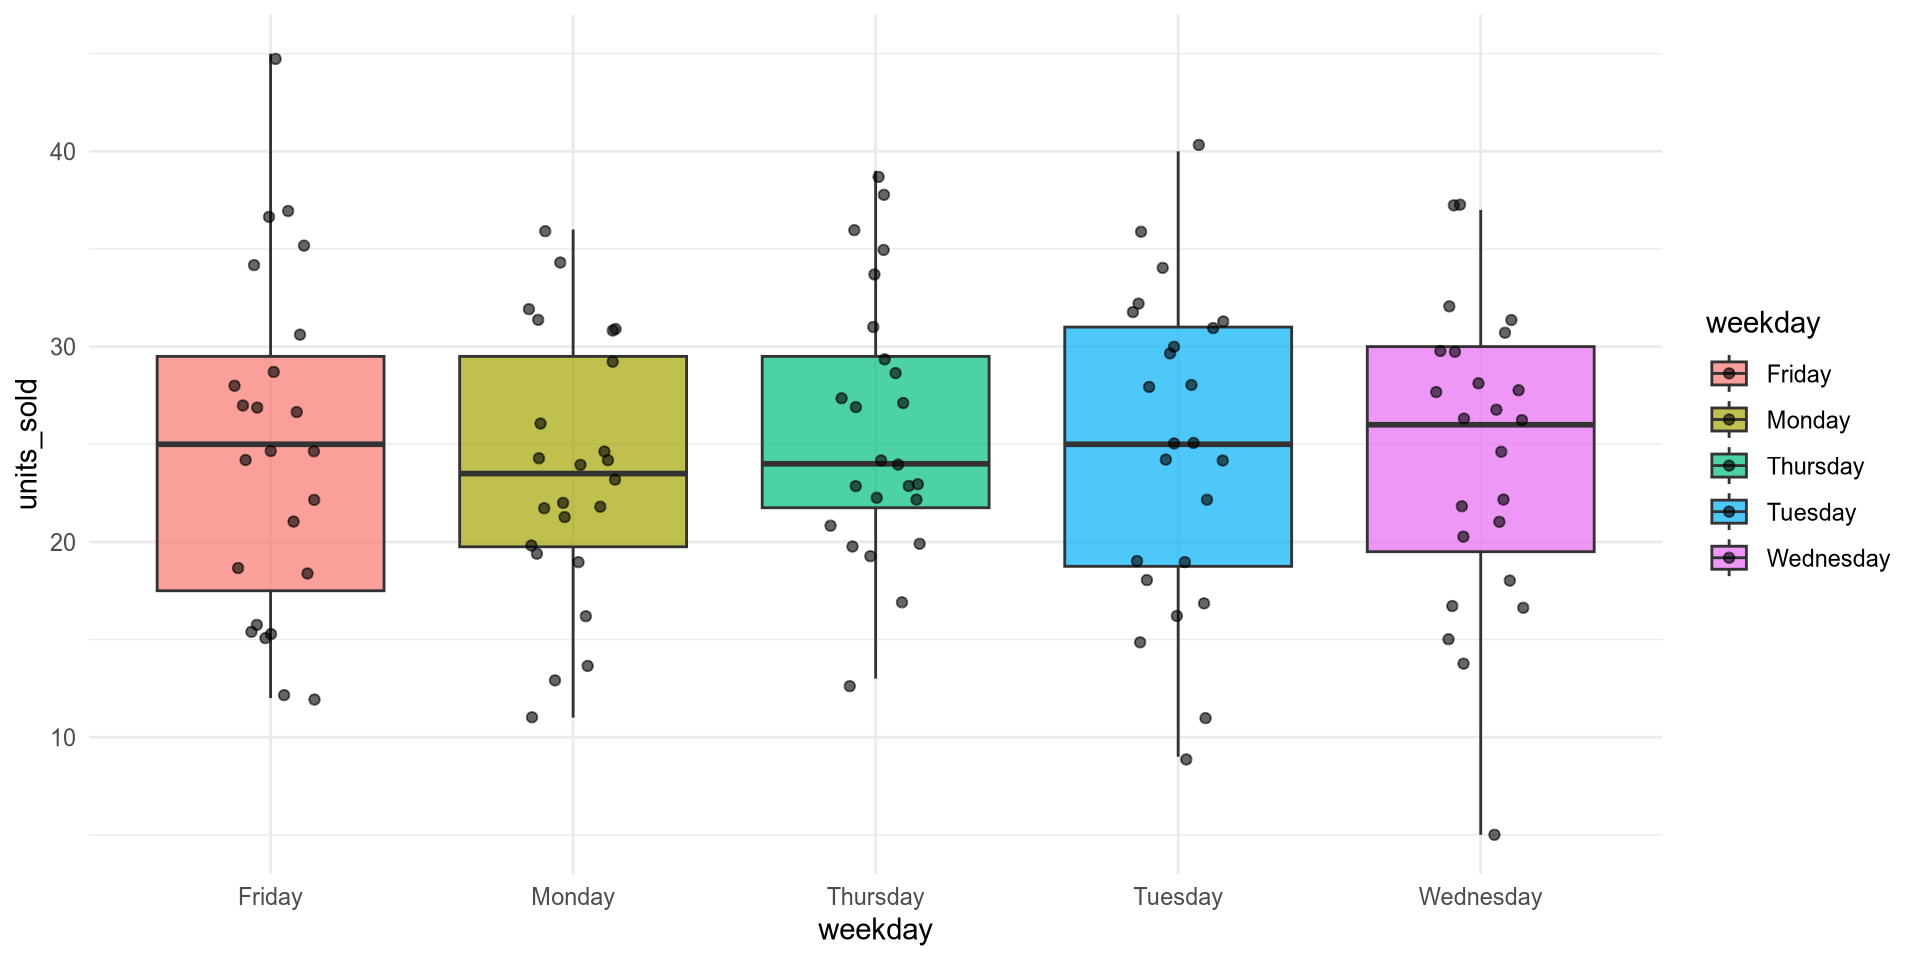
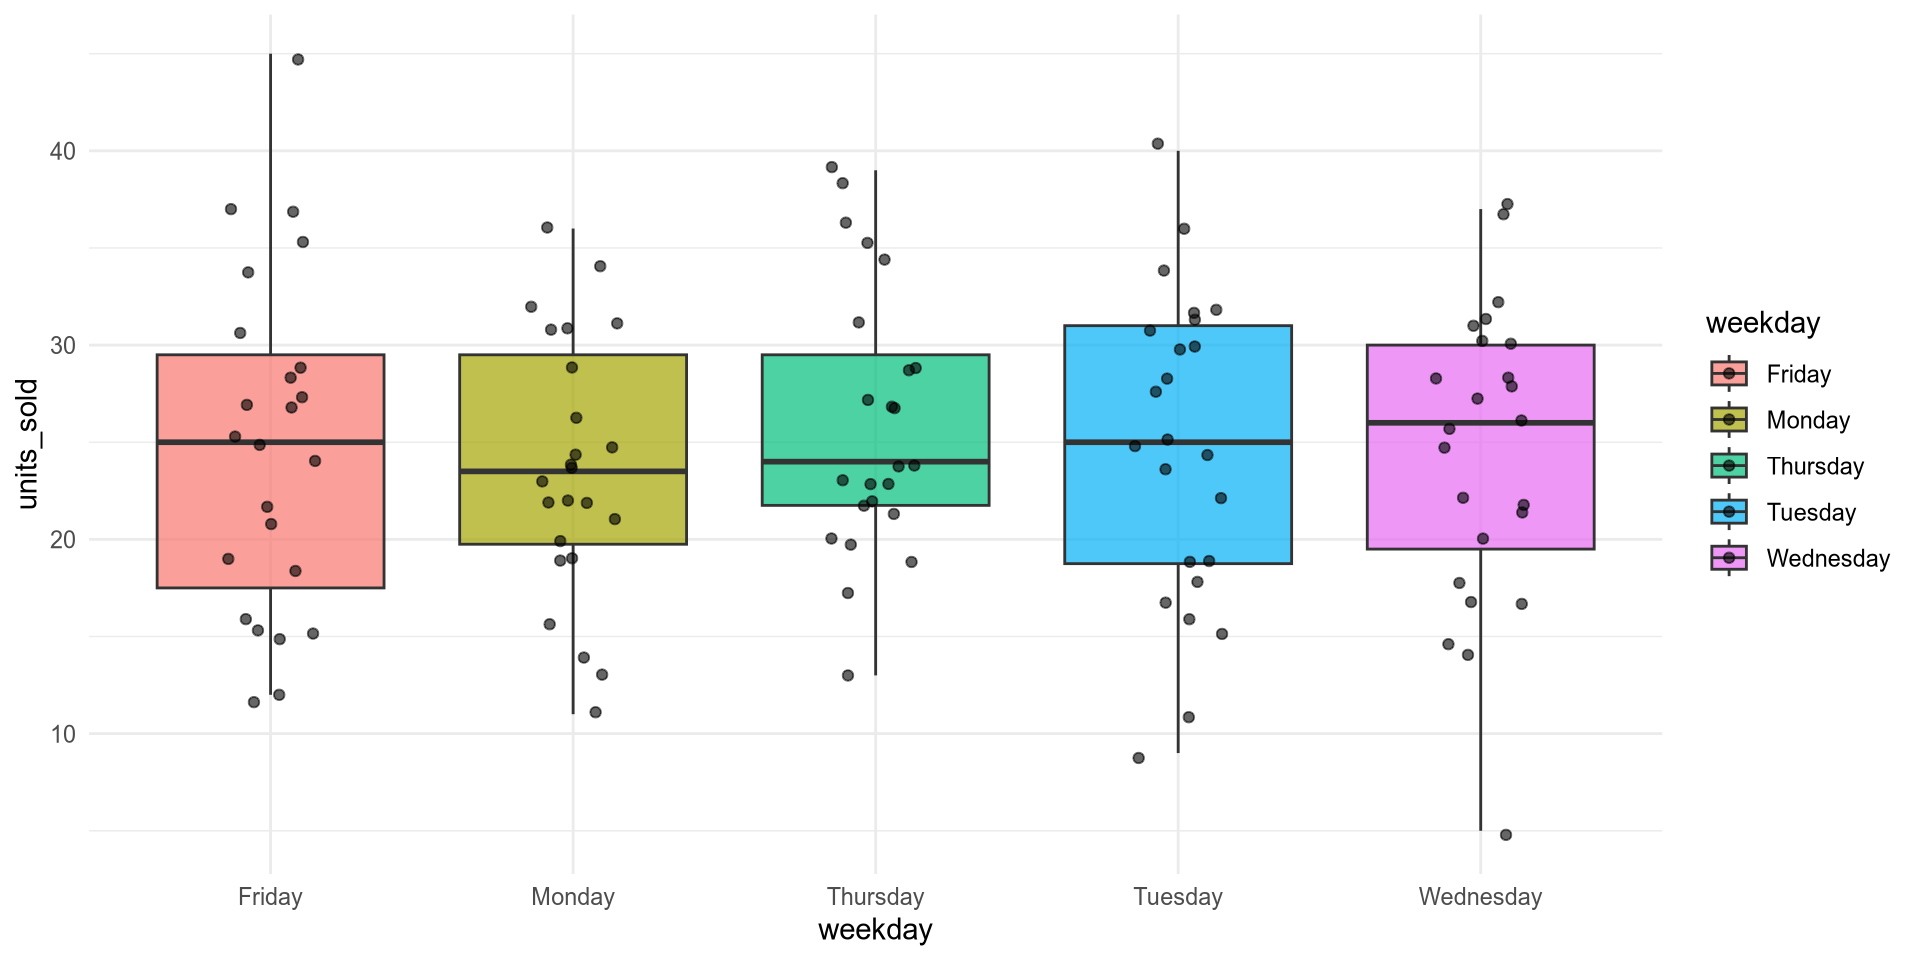
fixed corr -> cor

diff --git a/docs/slides_week9.html b/docs/slides_week9.html
@@ -613,11 +613,11 @@ r = \frac{\sum (x_i - \bar{x})(y_i - \bar{y})}
 <div class="cell">
 <div class="code-copy-outer-scaffold"><div class="sourceCode cell-code" id="cb8"><pre class="sourceCode numberSource r number-lines code-with-copy"><code class="sourceCode r"><span id="cb8-1"><a></a>horror_movies <span class="sc">%&gt;%</span></span>
 <span id="cb8-2"><a></a>  <span class="fu">select</span>(budget_million, gross_million) <span class="sc">%&gt;%</span></span>
-<span id="cb8-3"><a></a>  <span class="fu">corr</span>()</span></code></pre></div><button title="Copy to Clipboard" class="code-copy-button"><i class="bi"></i></button></div>
+<span id="cb8-3"><a></a>  <span class="fu">cor</span>()</span></code></pre></div><button title="Copy to Clipboard" class="code-copy-button"><i class="bi"></i></button></div>
 <div class="cell-output cell-output-stdout">
 <pre><code>               budget_million gross_million
-budget_million           1.00          0.78
-gross_million            0.78          1.00</code></pre>
+budget_million      1.0000000     0.7762746
+gross_million       0.7762746     1.0000000</code></pre>
 </div>
 </div>
 </div>
@@ -726,11 +726,11 @@ gross_million            0.78          1.00</code></pre>
 <div class="cell">
 <div class="code-copy-outer-scaffold"><div class="sourceCode cell-code" id="cb12"><pre class="sourceCode numberSource r number-lines code-with-copy"><code class="sourceCode r"><span id="cb12-1"><a></a>horror_movies <span class="sc">%&gt;%</span></span>
 <span id="cb12-2"><a></a>  <span class="fu">select</span>(budget_million, profit_multiplier) <span class="sc">%&gt;%</span></span>
-<span id="cb12-3"><a></a>  <span class="fu">corr</span>()</span></code></pre></div><button title="Copy to Clipboard" class="code-copy-button"><i class="bi"></i></button></div>
+<span id="cb12-3"><a></a>  <span class="fu">cor</span>()</span></code></pre></div><button title="Copy to Clipboard" class="code-copy-button"><i class="bi"></i></button></div>
 <div class="cell-output cell-output-stdout">
 <pre><code>                  budget_million profit_multiplier
-budget_million              1.00             -0.77
-profit_multiplier          -0.77              1.00</code></pre>
+budget_million         1.0000000        -0.7749882
+profit_multiplier     -0.7749882         1.0000000</code></pre>
 </div>
 </div>
 </div>
@@ -835,11 +835,11 @@ profit_multiplier          -0.77              1.00</code></pre>
 <div class="cell">
 <div class="code-copy-outer-scaffold"><div class="sourceCode cell-code" id="cb16"><pre class="sourceCode numberSource r number-lines code-with-copy"><code class="sourceCode r"><span id="cb16-1"><a></a>horror_movies <span class="sc">%&gt;%</span></span>
 <span id="cb16-2"><a></a>  <span class="fu">select</span>(title_length, imdb_score) <span class="sc">%&gt;%</span></span>
-<span id="cb16-3"><a></a>  <span class="fu">corr</span>()</span></code></pre></div><button title="Copy to Clipboard" class="code-copy-button"><i class="bi"></i></button></div>
+<span id="cb16-3"><a></a>  <span class="fu">cor</span>()</span></code></pre></div><button title="Copy to Clipboard" class="code-copy-button"><i class="bi"></i></button></div>
 <div class="cell-output cell-output-stdout">
-<pre><code>             title_length imdb_score
-title_length         1.00      -0.07
-imdb_score          -0.07       1.00</code></pre>
+<pre><code>             title_length  imdb_score
+title_length   1.00000000 -0.06986324
+imdb_score    -0.06986324  1.00000000</code></pre>
 </div>
 </div>
 </div>
